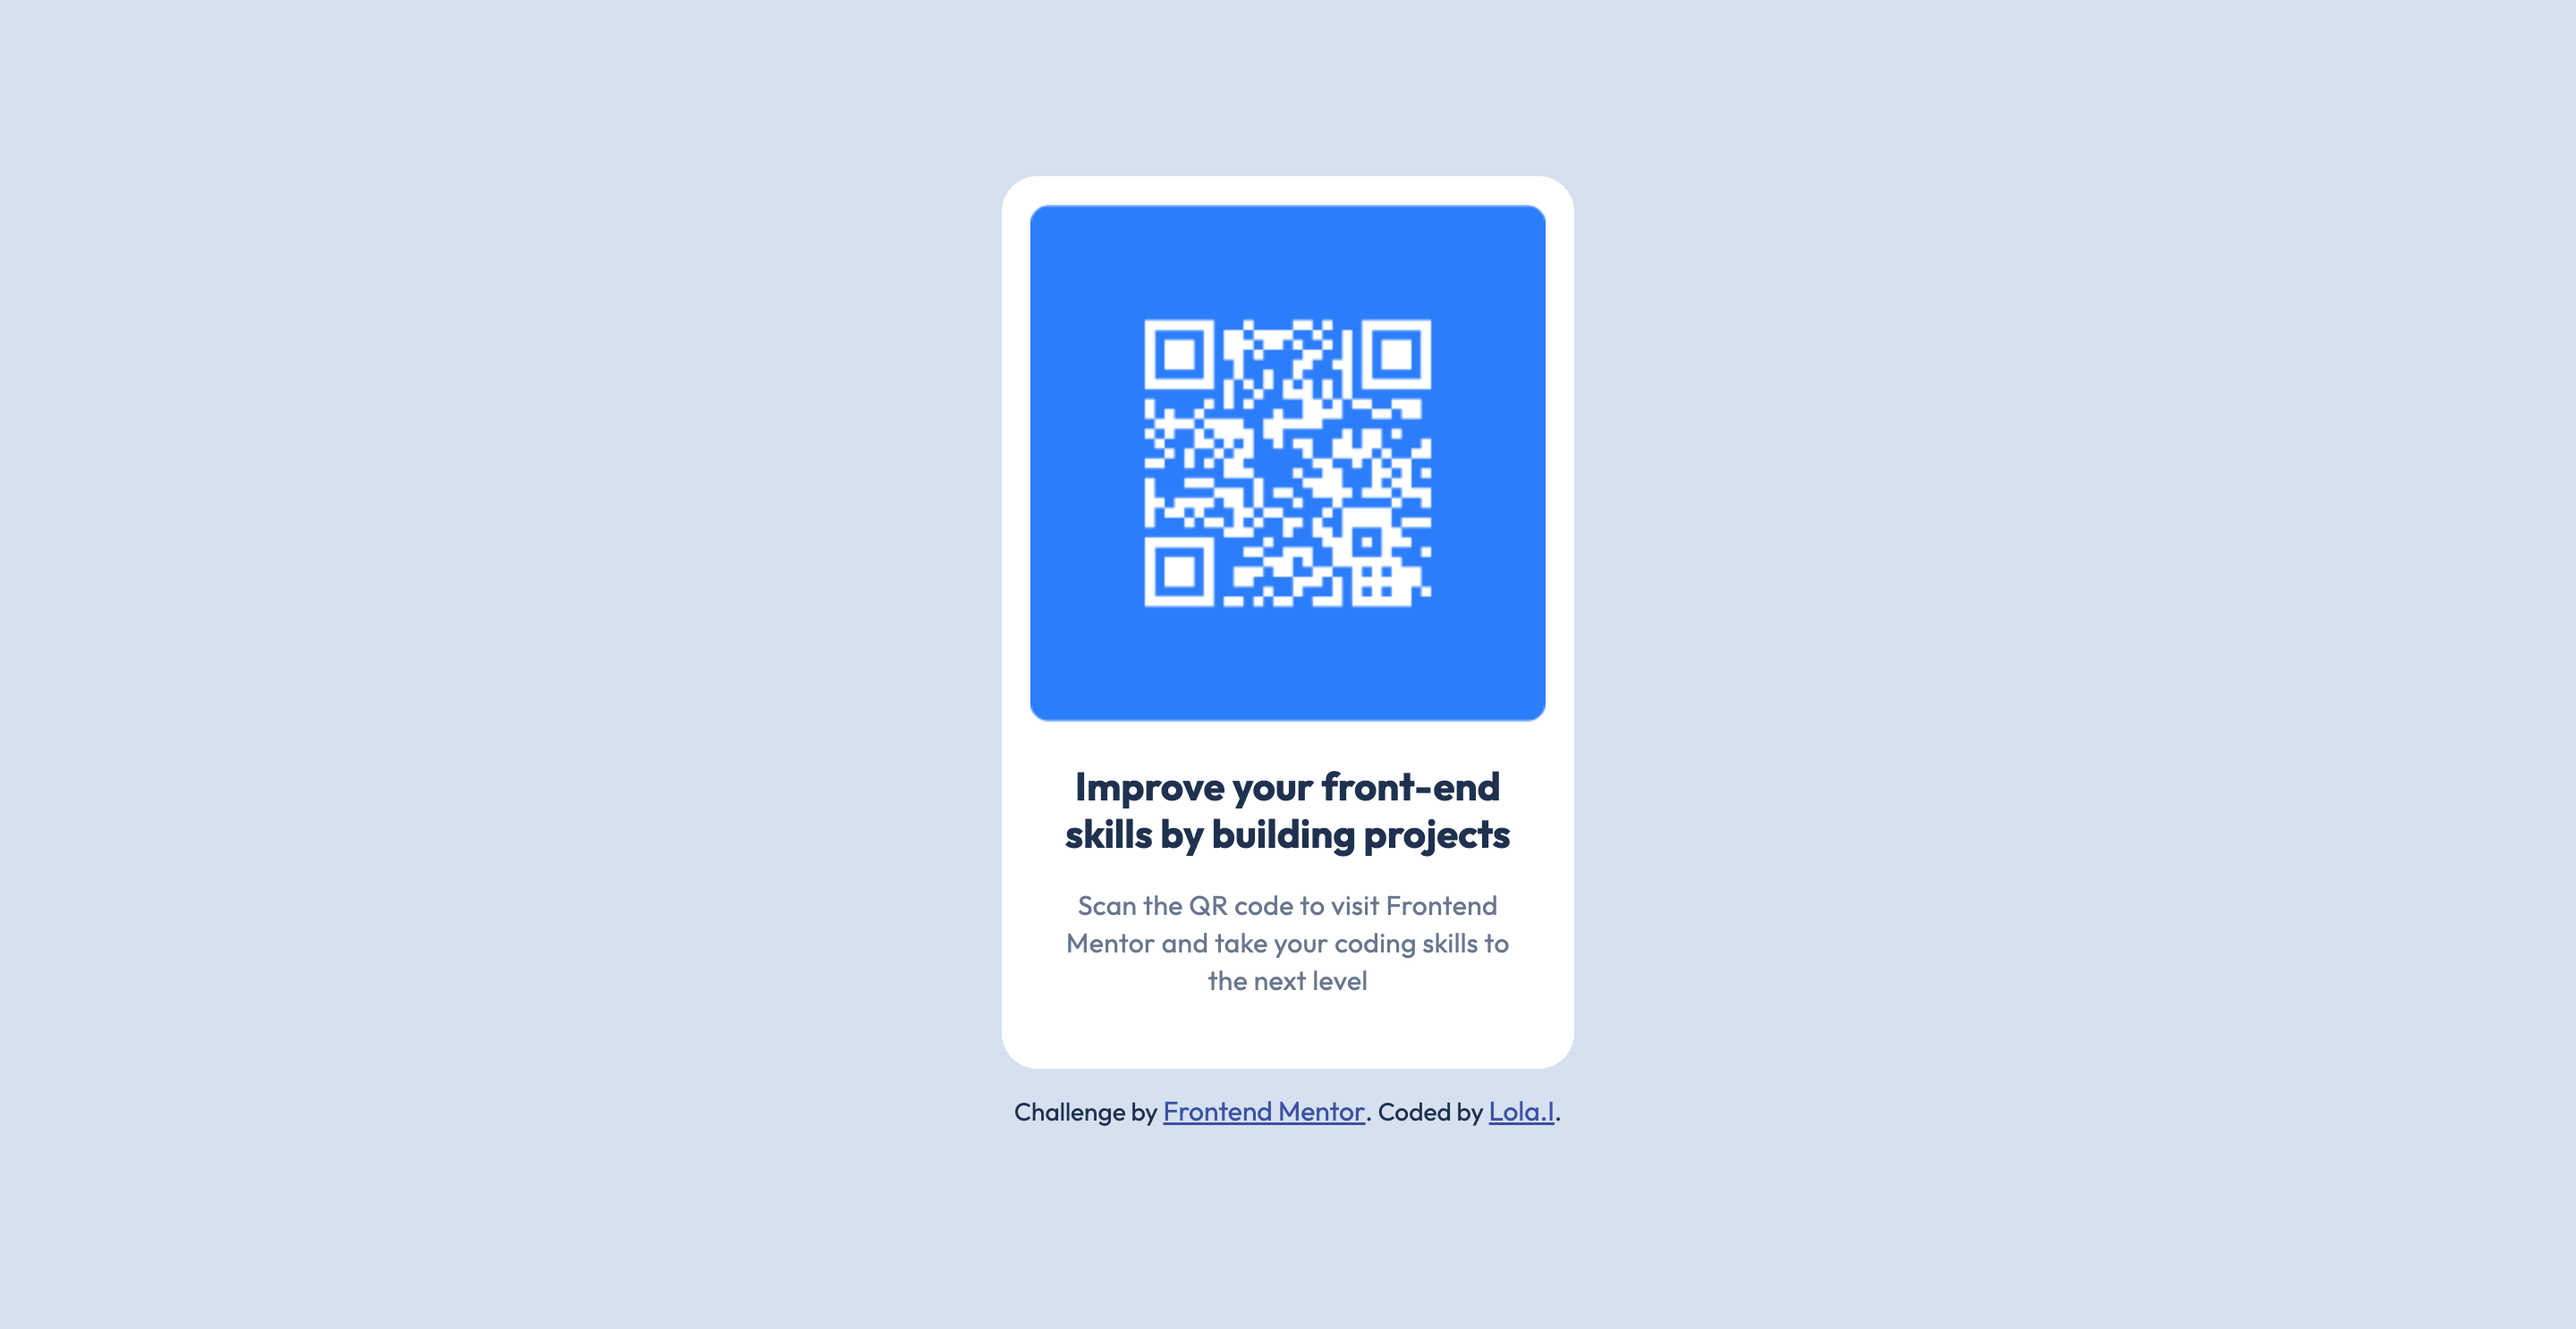
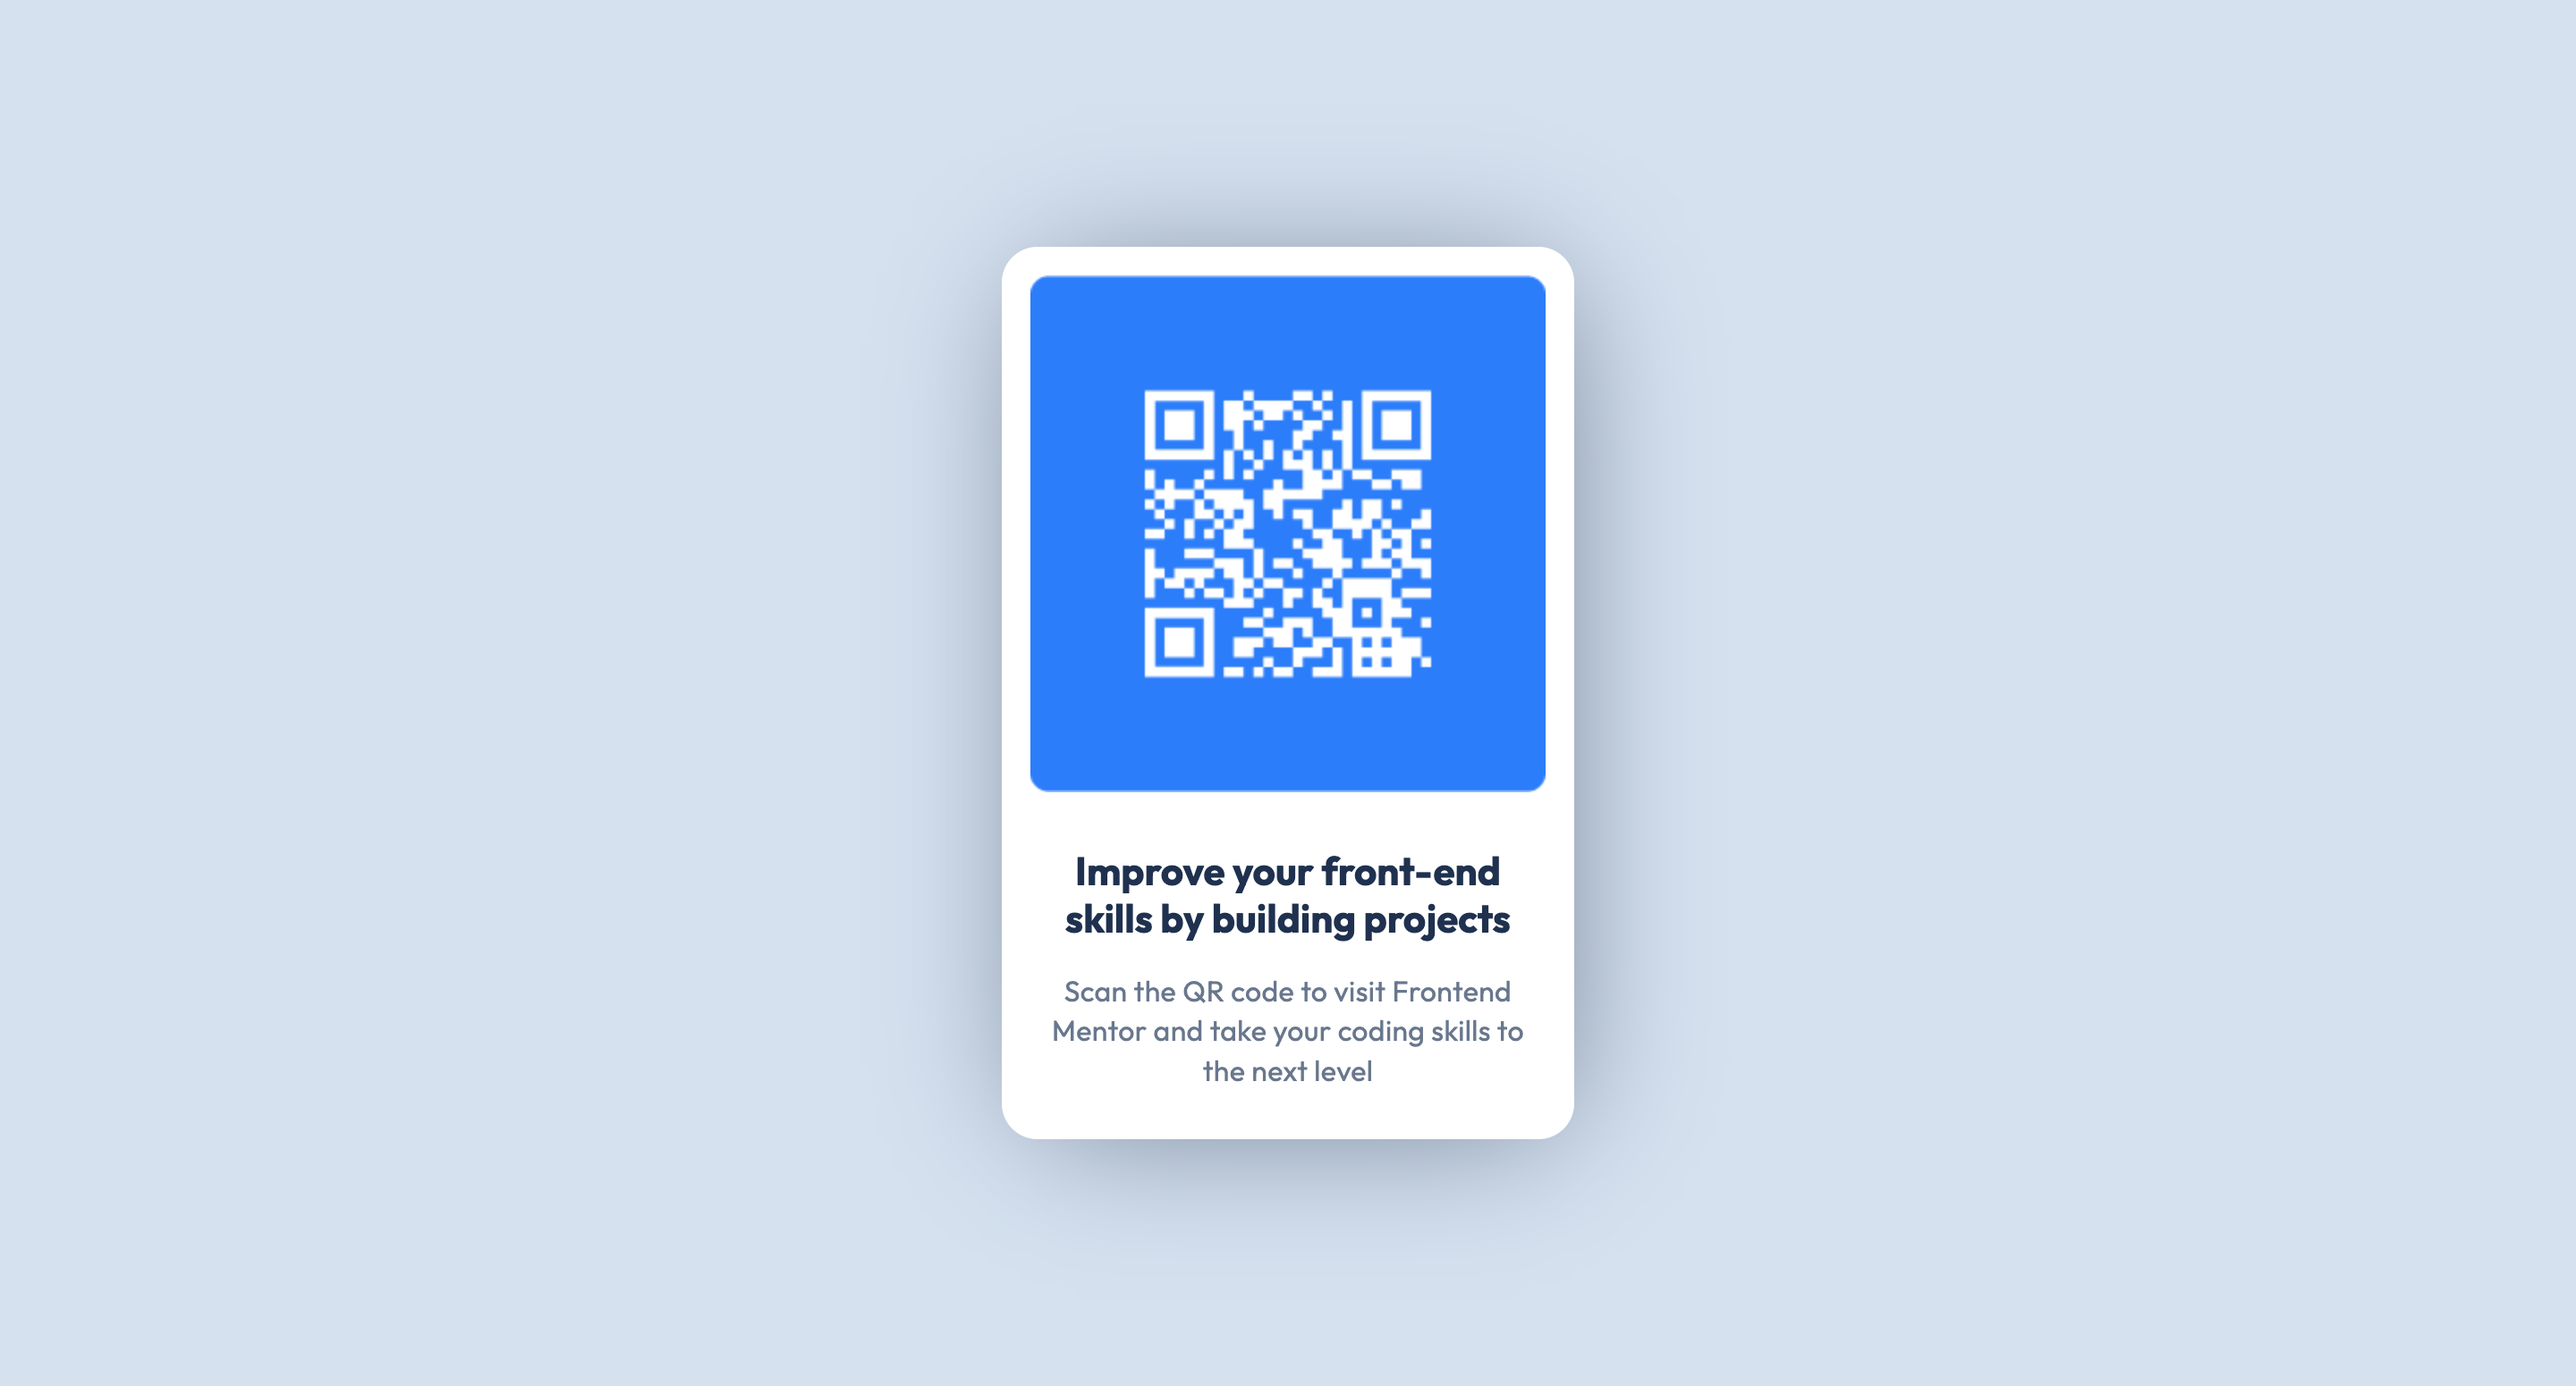
Updated html & Css codes using the Correction given

Changed region(s): [[0.375, 0.1238, 0.625, 0.8668]]

diff --git a/style.css b/style.css
@@ -1,81 +1,77 @@
-/* Mobile-Styles */
+* {
+    margin: 0;
+    padding: 0;
+}
+
 body {
     background-color: #d5e1ef;
     font-family: 'outfit', sans-serif;
-    margin: 0 auto;
-    width:100%;
-    max-width: 450px;
-    height: 100vh;
-    display: flex;
-    justify-content: center;
-    align-items: center;
-    overflow: hidden;
-}
-
-.wrapper {
+    min-height: 100vh;
     display: flex;
     flex-direction: column;
+    justify-content: center;
     align-items: center;
+    padding: 1rem;
+    gap: 2rem;
+    text-align: center;
 }
 
 .container {
     background-color: white;
-    width: 320px;
-    height: 499px;
+    height: 31.19rem;
+    max-width: 20rem;
     border-radius: 20px;
+    display:flex;
     flex-direction: column;
     align-items: center;
+    box-shadow: 5px 5px 80px -15px #68778d;
 }
 
 .qr-code {
-    width: 288px;
-    height: 288px;
-    margin: 16px 16px 0px;
+    width: 18rem;
+    height: 18rem;
+    display: block;
+    padding: 1rem;
     border-radius: 10px;   
 }
 
 .text {
-  margin: 24px 16px 40px;
-  width: 288px;
-  height: 131px;
+    margin: 0px 16px 40px;
+    width: 18rem;
+    height: 8.19rem;
 }
 
-.text h3 {
-    text-align: center;
+.text h2 {
     font-weight: 700;
-    font-size: 22px;
+    font-size: 1.375rem;
     line-height: 1.2;
-    margin: 16px;
+    margin: 1rem;
     color: #1f314f;
 }
 
 .text p {
-    text-align: center;
     line-height: 1.4;
-    letter-spacing: 0.2px;
-    font-weight: 400;
-    margin: 16px;
+    letter-spacing: 0.0125em;
     font-weight: normal;
-    font-size: 15px;
+    font-size: 1rem;
     color: #68778d;
 }
+
 .attribution {
-    text-align: center;
-    margin-top: 0px;
     color: #1f314f;
-    font-size: 14px;
+    font-size: 0.875rem;
 }
 
 .attribution a {
      color: hsl(228, 45%, 44%);
-     font-size: 15px;
+     font-size: 1rem;
      }
 
 .attribution a:hover {
     color: #141f72;
 }
 
-/* Desktop Style*/
+/* Desktop Style
 @media (min-width: 1440px) {
     body {
         width: 100%;
@@ -83,4 +79,4 @@ body {
         min-height: 100vh; 
         margin: 0 auto;
 }
-}
+}*/

diff --git a/index.html b/index.html
@@ -9,23 +9,21 @@
   <link rel="stylesheet" href="style.css">
 </head>
 <body>
-  <div class="wrapper">
+  <main>
     <div class="container">
-      <div class="clearfix">
-        <figure class="qr-code">
-          <img src="./images/QR Image.png" alt="QR Code">
-        </figure>
+        <div class="qr-code">
+          <img src="./images/qr-image.png" alt="QR Code leading to the Frontend Mentor website.">
+        </div>
         <div class="text">
-          <h3>Improve your front-end skills by building projects</h3>
+          <h2>Improve your front-end skills by building projects</h2>
           <p> Scan the QR code to visit Frontend Mentor and take your coding skills to the next level</p>
         </div>
       </div>
-    </div> 
+  </main> 
 
-    <footer class="attribution">
+  <!--<footer class="attribution">
       <p>Challenge by <a href="https://www.frontendmentor.io?ref=challenge" target="_blank">Frontend Mentor</a>.
          Coded by <a href="#">Lola.I</a>.</p>
-    </footer>
-  </div>
+   </footer>-->
 </body>
 </html>
